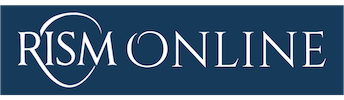
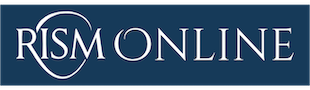
Reduce image size, link images

Changed region(s): [[0.029, 0.1111, 0.6097, 0.8889], [0.5806, 0.2889, 0.9581, 0.6889], [0.3484, 0.4667, 0.4065, 0.5111]]

diff --git a/_includes/sidepanels/digital-center.en.md b/_includes/sidepanels/digital-center.en.md
@@ -12,8 +12,8 @@ Switzerland
 # Tools for the RISM Community
 
 |:---:|
-| ![Muscat](/images/digital-center/muscat.png) |
+| [![Muscat](/images/digital-center/muscat.png)](/community/muscat.html) |
 | |
-| ![Verovio](/images/digital-center/verovio.png) |
+| [![Verovio](/images/digital-center/verovio.png)](https://verovio.org) |
 | |
-| ![RISM Online](/images/digital-center/rism-online.png) |
+| [![RISM Online](/images/digital-center/rism-online.png)](https://rism.online) |
